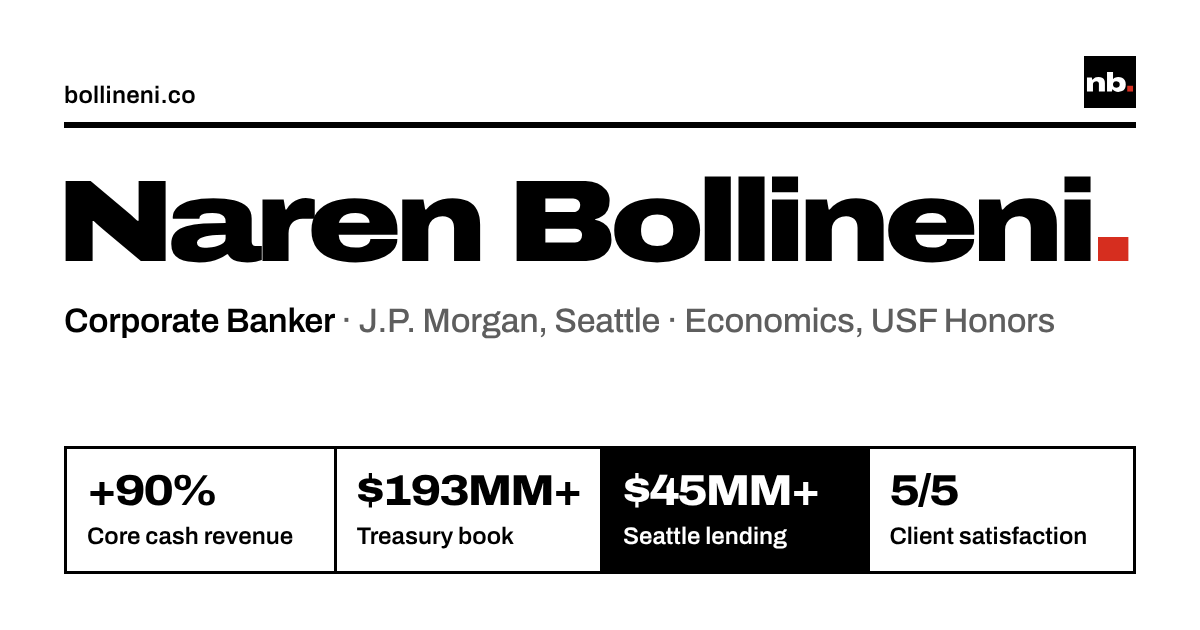
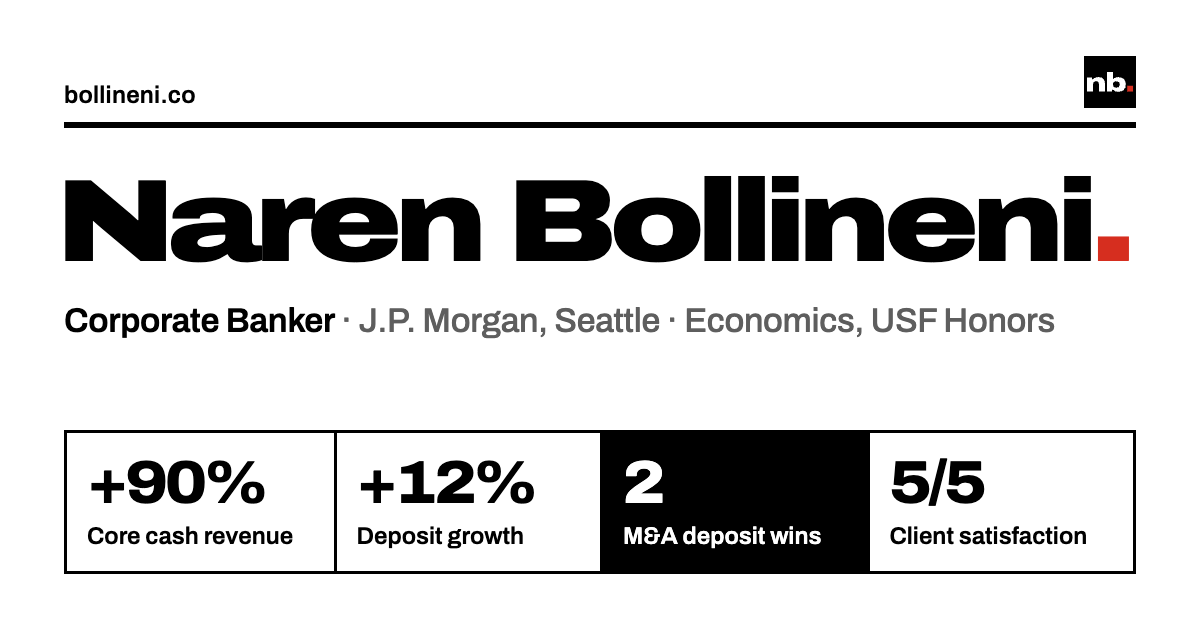
Match the resume: drop exact book figures, add UF M.A. and dates, drop CFA/SIE line, label Ballast as a personal project
Claude-Session: https://claude.ai/code/session_01BqKxhwnmygTeWSMVVUpSiq

diff --git a/site/index.html b/site/index.html
@@ -19,15 +19,15 @@
 <meta property="og:url" content="https://bollineni.co/">
 <meta property="og:title" content="Naren Bollineni">
 <meta property="og:description" content="Corporate banking at J.P. Morgan · Economics, USF Honors · Research, writing and software on the side.">
-<meta property="og:image" content="https://bollineni.co/og-resume.png?v=3">
+<meta property="og:image" content="https://bollineni.co/og-resume.png?v=4">
 <meta property="og:image:type" content="image/png">
 <meta property="og:image:width" content="1200">
 <meta property="og:image:height" content="630">
-<meta property="og:image:alt" content="Naren Bollineni. Corporate Banker, J.P. Morgan, Seattle: +90% core cash revenue, $193MM+ treasury book, $45MM+ Seattle lending, 5/5 client satisfaction.">
+<meta property="og:image:alt" content="Naren Bollineni. Corporate Banker, J.P. Morgan, Seattle: +90% core cash revenue, +12% deposit growth, 2 M&amp;A deposit wins, 5/5 client satisfaction.">
 <meta name="twitter:card" content="summary_large_image">
 <meta name="twitter:title" content="Naren Bollineni">
 <meta name="twitter:description" content="Corporate banking at J.P. Morgan · Economics, USF Honors · Research, writing and software on the side.">
-<meta name="twitter:image" content="https://bollineni.co/og-resume.png?v=3">
+<meta name="twitter:image" content="https://bollineni.co/og-resume.png?v=4">
 <script>
   // A link to an app (bollineni.co/#gridline) opens that app over this page: hide the page until it's up.
   // A copy installed on a phone's home screen is there for the apps, so it starts at them.
@@ -423,7 +423,7 @@ footer nav { display: flex; flex-wrap: wrap; gap: 6px 22px; }
   <div class="wrap hero" id="top">
     <h1 aria-label="Naren Bollineni"><span class="ln"><span>Naren</span></span> <span class="ln"><span>Bollineni<i>.</i></span></span></h1>
     <div class="intro">
-      <p class="role">Corporate Banker <span>J.P. Morgan, Seattle</span> <span>Economics, USF Honors</span></p>
+      <p class="role">Corporate Banker <span>J.P. Morgan, Seattle</span> <span>Economics, USF Honors · UF M.A. (incoming)</span></p>
       <p class="lede">I help commercial real estate clients move and grow their money. Economist by training, researcher by habit, builder on the side.</p>
       <p class="print-only">naren.bollineni@icloud.com · linkedin.com/in/narenbollineni · github.com/bollineni-create · bollineni.co</p>
       <div class="actions">
@@ -441,8 +441,8 @@ footer nav { display: flex; flex-wrap: wrap; gap: 6px 22px; }
         <div class="head"><h3>Corporate Banker</h3><span class="when">Aug 2025 to now</span></div>
         <p class="org">J.P. Morgan, Commercial Real Estate, Seattle</p>
         <ul>
-          <li>Grew core cash revenue <b>90% year over year ($438K to $835K)</b> and deposits <b>12% (+$20.5MM)</b> across a $193MM+ treasury portfolio.</li>
-          <li>Generated <b>$20MM in deposits</b> from 2 M&amp;A transactions and partnered with Chase lending teams to secure <b>$45MM+ in Seattle lending</b>.</li>
+          <li>Grew core cash revenue <b>90% year over year</b> and deposits <b>12%</b> across a nine-figure treasury portfolio.</li>
+          <li>Brought in new deposits from <b>2 M&amp;A transactions</b> and partnered with Chase lending teams on Seattle credit originations.</li>
           <li>Earned perfect <b>5/5 client satisfaction</b> scores and CB Outstanding Banker recognition, coordinating global teams on complex syndications.</li>
         </ul>
       </div>
@@ -461,12 +461,12 @@ footer nav { display: flex; flex-wrap: wrap; gap: 6px 22px; }
         <ul><li>Ran AR/AP cycles and month-end reconciliations; supported the annual budget and policy reviews presented to the CFO.</li></ul>
       </div>
       <div class="row">
-        <div class="head"><h3>Inventory Manager &amp; Medical Assistant</h3><span class="when">2020 to 2021</span></div>
+        <div class="head"><h3>Inventory Manager &amp; Medical Assistant</h3><span class="when">Aug 2020 to Aug 2021</span></div>
         <p class="org">Care Cardiology &amp; Vein Center</p>
         <ul><li>Built the practice's surgical inventory system and rebuilt procedure billing, <b>cutting turnaround 50%+</b>.</li></ul>
       </div>
       <div class="row">
-        <div class="head"><h3>Marketing Director &amp; Consultant</h3><span class="when">2020 to 2021</span></div>
+        <div class="head"><h3>Marketing Director &amp; Consultant</h3><span class="when">Aug 2020 to Sep 2021</span></div>
         <p class="org">HEXA Consulting Junior Enterprise</p>
         <ul><li>Lifted brand awareness and client engagement <b>34%</b>; managed 10+ pro-bono consulting projects for Tampa Bay small businesses.</li></ul>
       </div>
@@ -477,12 +477,12 @@ footer nav { display: flex; flex-wrap: wrap; gap: 6px 22px; }
     <h2 class="wide">Research</h2>
     <div class="rows">
       <div class="row">
-        <div class="head"><h3>Lab Coordinator, EcoFem Lab</h3><span class="when">4 years</span></div>
+        <div class="head"><h3>Lab Coordinator, EcoFem Lab</h3><span class="when">Aug 2019 to Oct 2023</span></div>
         <p class="org">USF St. Petersburg</p>
         <ul><li>Studied the socio-economic cost of harmful algal blooms on Southwest Florida's coastal communities, tourism and fisheries; ran IRB and grant submissions.</li></ul>
       </div>
       <div class="row">
-        <div class="head"><h3>Research Assistant, ABCD Research Team</h3><span class="when">2020</span></div>
+        <div class="head"><h3>Research Assistant, ABCD Research Team</h3><span class="when">May to Jul 2020</span></div>
         <p class="org">Morsani College of Medicine</p>
         <ul><li>Researched chronic disease among the uninsured of Tampa Bay with local free clinics.</li></ul>
       </div>
@@ -502,15 +502,18 @@ footer nav { display: flex; flex-wrap: wrap; gap: 6px 22px; }
     <h2 class="wide">Education</h2>
     <div class="rows">
       <div class="row">
-        <div class="head"><h3>B.A. Economics, Magna Cum Laude</h3><span class="when">USF Honors</span></div>
+        <div class="head"><h3>M.A. Economics</h3><span class="when">Incoming</span></div>
+        <p class="org">University of Florida</p>
+      </div>
+      <div class="row">
+        <div class="head"><h3>B.A. Economics, Magna Cum Laude</h3><span class="when">May 2023</span></div>
         <p class="org">University of South Florida, Judy Genshaft Honors College</p>
-        <ul><li>Minors in Mathematics and Chemistry, plus the full pre-med sequence. Dean's List every term; IB Diploma.</li></ul>
+        <ul><li>Minors in Mathematics and Chemistry, plus the full pre-med sequence. Dean's List, Spring 2019 to Spring 2023; IB Diploma.</li></ul>
       </div>
       <div class="row">
         <dl>
-          <dt>In progress</dt><dd>CFA Level I candidate (Feb 2027) · SIE exam (Nov 2026)</dd>
-          <dt>Technical</dt><dd>Python (assisted with AI), R, Salesforce, Alteryx, Tableau, Qlik, financial modeling</dd>
-          <dt>Industry</dt><dd>Commercial real estate, transaction banking, multifamily and property management</dd>
+          <dt>Technical</dt><dd>Salesforce, Alteryx, Tableau, Qlik, PEGA, Signavio, SAGE 500, R, Python, financial modeling</dd>
+          <dt>Industry</dt><dd>Commercial real estate, transaction banking, multifamily and property management, healthcare and higher education</dd>
         </dl>
       </div>
     </div>
@@ -522,8 +525,9 @@ footer nav { display: flex; flex-wrap: wrap; gap: 6px 22px; }
       <div class="row">
         <ul>
           <li>President, Project Downtown Tampa (<b>$23K raised</b>).</li>
-          <li>Allocated <b>$5MM</b> on USF's Green Energy Fund Council.</li>
+          <li>Board member, USF Student Green Energy Fund Council: evaluated <b>20+ proposals</b> for <b>$5MM</b> in campus sustainability funding.</li>
           <li>State-certified HIV/AIDS counselor, BRIDGE Clinic.</li>
+          <li>Board member, University Conduct Board (50+ hearings) and Marshall Student Center Advisory Board.</li>
         </ul>
       </div>
     </div>

diff --git a/tools/og-resume.html b/tools/og-resume.html
@@ -23,8 +23,8 @@ h1 i{font-style:normal;color:#D62E1F}
 <p class="role">Corporate Banker <span>· J.P. Morgan, Seattle · Economics, USF Honors</span></p>
 <div class="tombs">
 <div class="t"><b>+90%</b><small>Core cash revenue</small></div>
-<div class="t"><b>$193MM+</b><small>Treasury book</small></div>
-<div class="t inv"><b>$45MM+</b><small>Seattle lending</small></div>
+<div class="t"><b>+12%</b><small>Deposit growth</small></div>
+<div class="t inv"><b>2</b><small>M&amp;A deposit wins</small></div>
 <div class="t"><b>5/5</b><small>Client satisfaction</small></div>
 </div></div>
 <script>document.fonts.ready.then(()=>{const h=document.querySelector('h1');const w=1072;if(h.scrollWidth>w){h.style.fontSize=(150*w/h.scrollWidth)+'px'};let r=1;document.querySelectorAll('.t b').forEach(b=>{const p=b.parentElement.clientWidth-40;r=Math.min(r,p/b.scrollWidth)});document.querySelectorAll('.t b').forEach(b=>b.style.fontSize=(60*r)+'px');let q=1;document.querySelectorAll('.t small').forEach(b=>{const p=b.parentElement.clientWidth-40;q=Math.min(q,p/b.scrollWidth)});document.querySelectorAll('.t small').forEach(b=>b.style.fontSize=(24*q)+'px');document.title='ready'})</script>
